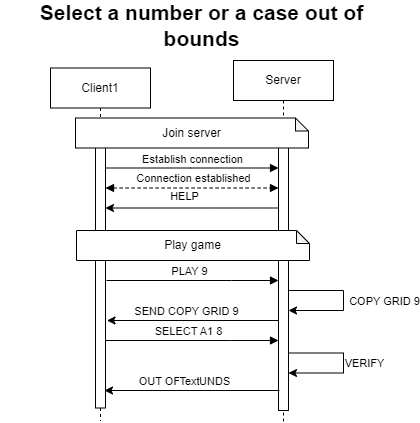
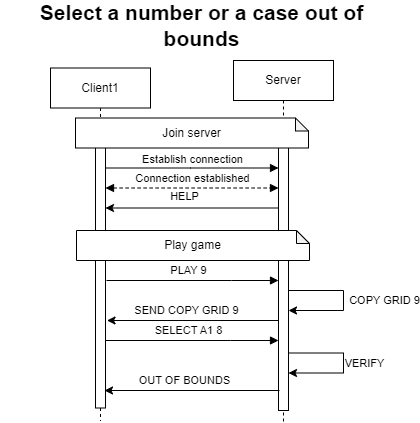
Correct protocol

diff --git a/protocol.md b/protocol.md
@@ -83,8 +83,11 @@ then it sends HELP again.
 ### Working example
 ![](Images/SudokuWEx.png)
 
-### ERROR: Select a game size that does not exits
+### ERROR: Select a game size that does not exist
 ![](Images/SudokuE1.png)
+
+### ERROR: Select a case before start a game
+![](Images/SudokuSbP.png)
 
 ### RETRY : Select a wrong input
 ![](Images/SudokuWI.png)
